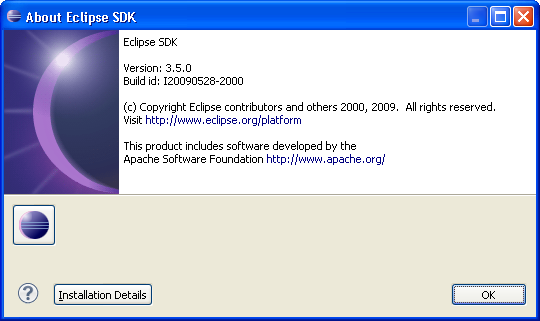
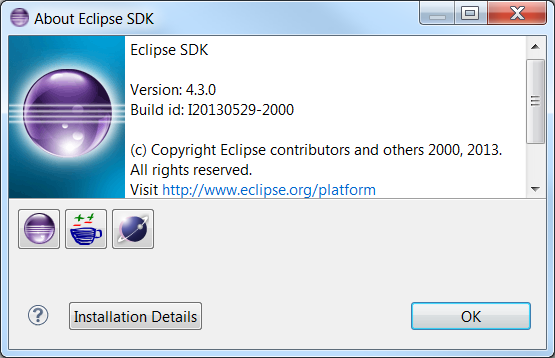
Improve programmer's guide New about dialog screenshot, fix plug-in/fragment description

diff --git a/bundles/org.eclipse.platform.doc.isv/guide/product_def_plugins.htm b/bundles/org.eclipse.platform.doc.isv/guide/product_def_plugins.htm
@@ -1,45 +1,51 @@
 <!DOCTYPE HTML PUBLIC "-//W3C//DTD HTML 4.0 Transitional//EN"><html lang="en">
 <HEAD>
 
-<meta name="copyright" content="Copyright (c) IBM Corporation and others 2000, 2005. This page is made available under license. For full details see the LEGAL in the documentation book that contains this page." >
+<meta name="copyright" content="Copyright (c) IBM Corporation and others 2000, 2013. This page is made available under license. For full details see the LEGAL in the documentation book that contains this page." >
 
 <META HTTP-EQUIV="Content-Type" CONTENT="text/html; charset=ISO-8859-1">
 <META HTTP-EQUIV="Content-Style-Type" CONTENT="text/css">
 
 <LINK REL="STYLESHEET" HREF="../book.css" CHARSET="ISO-8859-1" TYPE="text/css">
-<TITLE>Plug-ins</TITLE>
+<TITLE>Plug-ins and fragments</TITLE>
 
 <link rel="stylesheet" type="text/css" HREF="../book.css">
 </HEAD>
 <BODY BGCOLOR="#ffffff">
 <h2>Plug-ins and fragments</h2>
-<p>Features are described in terms of the plug-ins that comprise them.&nbsp;
-This means that plug-ins are the fundamental unit for packaging
-function.&nbsp;&nbsp;</p>
-<p>While features are organized for the purposes of distributing and updating
-products, plug-ins are organized to facilitate the development of the product
-functionality among the product team.&nbsp; The development team determines when to
-carve up program functionality into a separate plug-in.&nbsp;&nbsp;</p>
-<p>Plug-ins are packaged in a <a href="../reference/misc/plugin_archive.html">plug-in
-archive</a> file and described using a <a href="../reference/misc/plugin_manifest.html">plug-in
-manifest file</a>, <b>plugin.xml</b>.&nbsp;&nbsp;</p>
-<p>Plug-in <b>fragments</b> are separately packaged files whose contents are
-treated as if they were in the original plug-in archive file.&nbsp; They are
-useful for adding plug-in functionality, such as additional national language
-translations, to an existing plug-in after it has been installed.&nbsp;
-Fragments are ideal for shipping functionality that may trail the initial product
-release, since they can be used to add functionality without repackaging or
-reinstalling the original plug-in.&nbsp; When a fragment is detected by the
-platform, its contents are merged with the functionality in the original
-plug-in.&nbsp; In other words, if you query the platform plug-in registry, you
-would see the extensions and other functionality provided in the fragment as if it
-was in the original plug-in.</p>
-<p>Fragments are described using a fragment manifest file, <b>fragment.xml.</b>&nbsp;
-It is similar to the plug-in manifest file.&nbsp; Since a fragment shares many
-properties with its plug-in, some attributes in the plug-in manifest are not
-valid, such as the plug-in class and plug-in imports.</p>
-<p><a href="../reference/misc/plugin_archive.html">Plug-in
-archive</a> files can contain plug-ins or fragments.&nbsp; </p>
+<p>Features are described in terms of the plug-ins that comprise them. A <strong>plug-in</strong> 
+is used to group your code into a modular, extendable and sharable unit.</p>
+
+<p>Plug-ins are <em>modular</em> as each plug-in contains some portion of code.  The plug-in specifies 
+other plug-ins (or java packages) it requires to be available to run and it also specifies the set of 
+java packages it provides.  An Eclipse based <a href="product.htm">product</a> will contain
+multiple plug-ins, which can be added, replaced or removed to alter the functionality of the program.</p>
+
+<p>Eclipse plug-ins are based on OSGi bundles.  OSGi is used to manage the plug-ins in a product.  A 
+plug-in must contain a <a href="../reference/misc/bundle_manifest.html">manifest file</a> with valid 
+OSGi headers for plug-in name and version.</p>
+
+<p>Plug-ins are <em>extendable</em> using <a href="product_extension.htm">extensions and extension points</a>.  
+A plug-in can provide one or more extension points so other plug-ins can add to the functionality of 
+the plug-in.  A plug-in may also provide extensions to connect to other plug-ins. To use extensions you must 
+provide a <a href="../reference/misc/plugin_manifest.html">plugin.xml</a> file.</p>
+
+<p>A <strong>fragment</strong> is used to replace or extend the functionality of
+an existing plug-in.  A common use for fragments is to put environment (operating system,
+architecture, etc.) specific code into fragments.  Depending on the environment the 
+plug-in is installed in the base plug-in code along with the correct fragment can be installed.
+Fragments are also ideal for shipping features like language or maintenance packs that typically 
+trail the initial products for a few months.</p>
+
+<p>When a fragment is detected by the platform and its parent plug-in is found, 
+the fragment's libraries, extensions and extension points are &quot;merged&quot; with 
+those of the parent plug-in. While this merging mechanism is good from a runtime point of view,
+developers need to view fragments as separate entities while working on them. Fragments require
+a valid OSGi manifest.  To use extensions and extension points they must define a fragment.xml
+file which has the same structure as a plugin.xml file.</p>
+
+<p>Plug-ins and fragments can be packaged in <a href="../reference/misc/plugin_archive.html">Plug-in
+archive</a> files</p>
 
 </BODY>
 </HTML>

diff --git a/bundles/org.eclipse.platform.doc.isv/questions/index.html b/bundles/org.eclipse.platform.doc.isv/questions/index.html
@@ -2,7 +2,7 @@
     "http://www.w3.org/TR/xhtml1/DTD/xhtml1-strict.dtd">
 <html lang="en" xmlns="http://www.w3.org/1999/xhtml" xml:lang="en">
 <head>
-	<meta name="copyright" content="Copyright (c) IBM Corporation and others 2000, 2011. This page is made available under license. For full details see the LEGAL in the documentation book that contains this page." />
+	<meta name="copyright" content="Copyright (c) IBM Corporation and others 2000, 2013. This page is made available under license. For full details see the LEGAL in the documentation book that contains this page." />
    <meta http-equiv="Content-Type" content="text/html; charset=iso-8859-1"/>
    <link rel="STYLESHEET" href="../book.css" charset="ISO-8859-1" type="text/css"/>
    <title>Platform questions index</title>
@@ -17,10 +17,12 @@ Platform questions index</h1>
 </ul>
 <h3>Core runtime</h3>
 <ul>
-  <li><a href="../guide/arch.htm">What is an extension point?&nbsp; an
+  <li><a href="../guide/product_extension.htm">What is an extension point?&nbsp; an
     extension?</a></li>
- <li><a href="../reference/misc/plugin_manifest.html">What is the formal definition
+ <li><a href="../reference/misc/bundle_manifest.html">What is the formal definition
     for the manifest file?</a></li>
+     <li><a href="../reference/misc/plugin_manifest.html">What is the formal definition
+    for the plugin.xml?</a></li>
   <li><a href="../guide/product_def_nl.htm">Where do I put translated files for
     NLS?</a></li>
 </ul>
